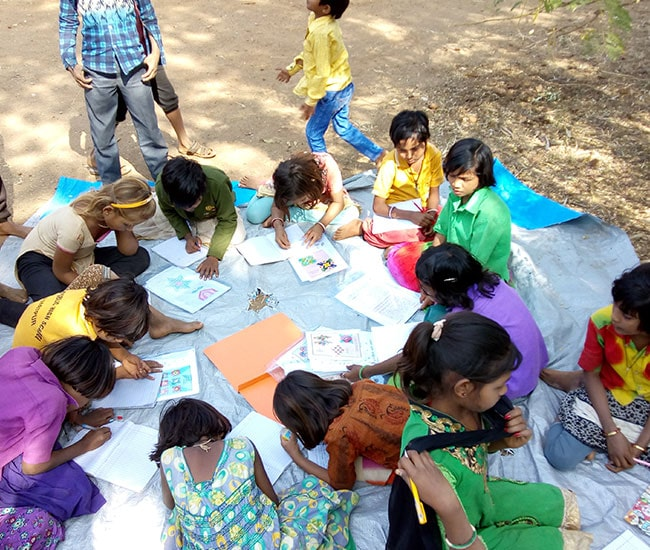
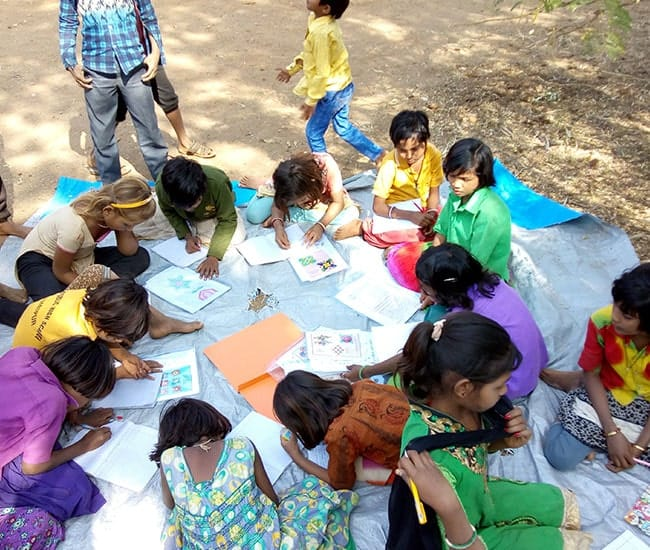
Perf: recompress images, non-blocking fonts + hero preload on homepage, SW precache fix
- 5 images recompressed (mozjpeg q80): 386KB -> 232KB, no visible quality loss
- index.html: Google Fonts no longer render-blocking; hero images preloaded with fetchpriority
- sw.js: precache the font URLs pages actually use (old stale URL removed), cache bumped to v5

Changed region(s): [[0.3385, 0.9582, 0.4, 0.9891]]

diff --git a/index.html b/index.html
@@ -8,8 +8,13 @@
 
   <link rel="preconnect" href="https://fonts.googleapis.com">
   <link rel="preconnect" href="https://fonts.gstatic.com" crossorigin>
-  <link href="https://fonts.googleapis.com/css2?family=Inter:wght@400;500;600;700;800;900&display=swap" rel="stylesheet">
+  <!-- Non-render-blocking fonts: page paints immediately, font applies when ready -->
+  <link href="https://fonts.googleapis.com/css2?family=Inter:wght@400;500;600;700;800;900&display=swap" rel="stylesheet" media="print" onload="this.media='all'">
+  <noscript><link href="https://fonts.googleapis.com/css2?family=Inter:wght@400;500;600;700;800;900&display=swap" rel="stylesheet"></noscript>
   <link rel="stylesheet" href="global.css">
+  <!-- Preload above-the-fold hero images for faster LCP -->
+  <link rel="preload" as="image" href="WhatsApp%20Image%202026-03-18%20at%201.03.20%20PM.jpeg">
+  <link rel="preload" as="image" href="children-art.jpeg">
   <meta name="google-site-verification" content="jp3INNMVt0Xynufd1Xn4A2DfXQwR7RWHoXWLv4yRIt4" />
   <style>
     *{
@@ -2917,7 +2922,7 @@ footer{
 
   <img class="hero-bg-img"
        src="WhatsApp%20Image%202026-03-18%20at%201.03.20%20PM.jpeg"
-       alt="VED Foundation banner" loading="eager" decoding="async">
+       alt="VED Foundation banner" loading="eager" decoding="async" fetchpriority="high">
 
   <div class="hero-banner">
 

diff --git a/sw.js b/sw.js
@@ -1,6 +1,6 @@
 'use strict';
 
-const CACHE_NAME    = 'ved-admin-v4';
+const CACHE_NAME    = 'ved-admin-v5';
 const OFFLINE_URL   = '/offline.html';
 
 // Static assets to cache immediately on install
@@ -9,7 +9,8 @@ const PRECACHE = [
   '/manifest.json',
   '/icons/icon-192.svg',
   '/icons/icon-512.svg',
-  'https://fonts.googleapis.com/css2?family=Sora:wght@300;400;500;600;700;800&family=DM+Sans:ital,wght@0,300;0,400;0,500;0,600;1,400&display=swap',
+  'https://fonts.googleapis.com/css2?family=Sora:wght@400;600;700;800&family=DM+Sans:wght@400;500;600&family=Dancing+Script:wght@700&display=swap',
+  'https://fonts.googleapis.com/css2?family=Inter:wght@400;500;600;700;800;900&display=swap',
   'https://cdnjs.cloudflare.com/ajax/libs/font-awesome/6.5.0/css/all.min.css',
 ];
 
